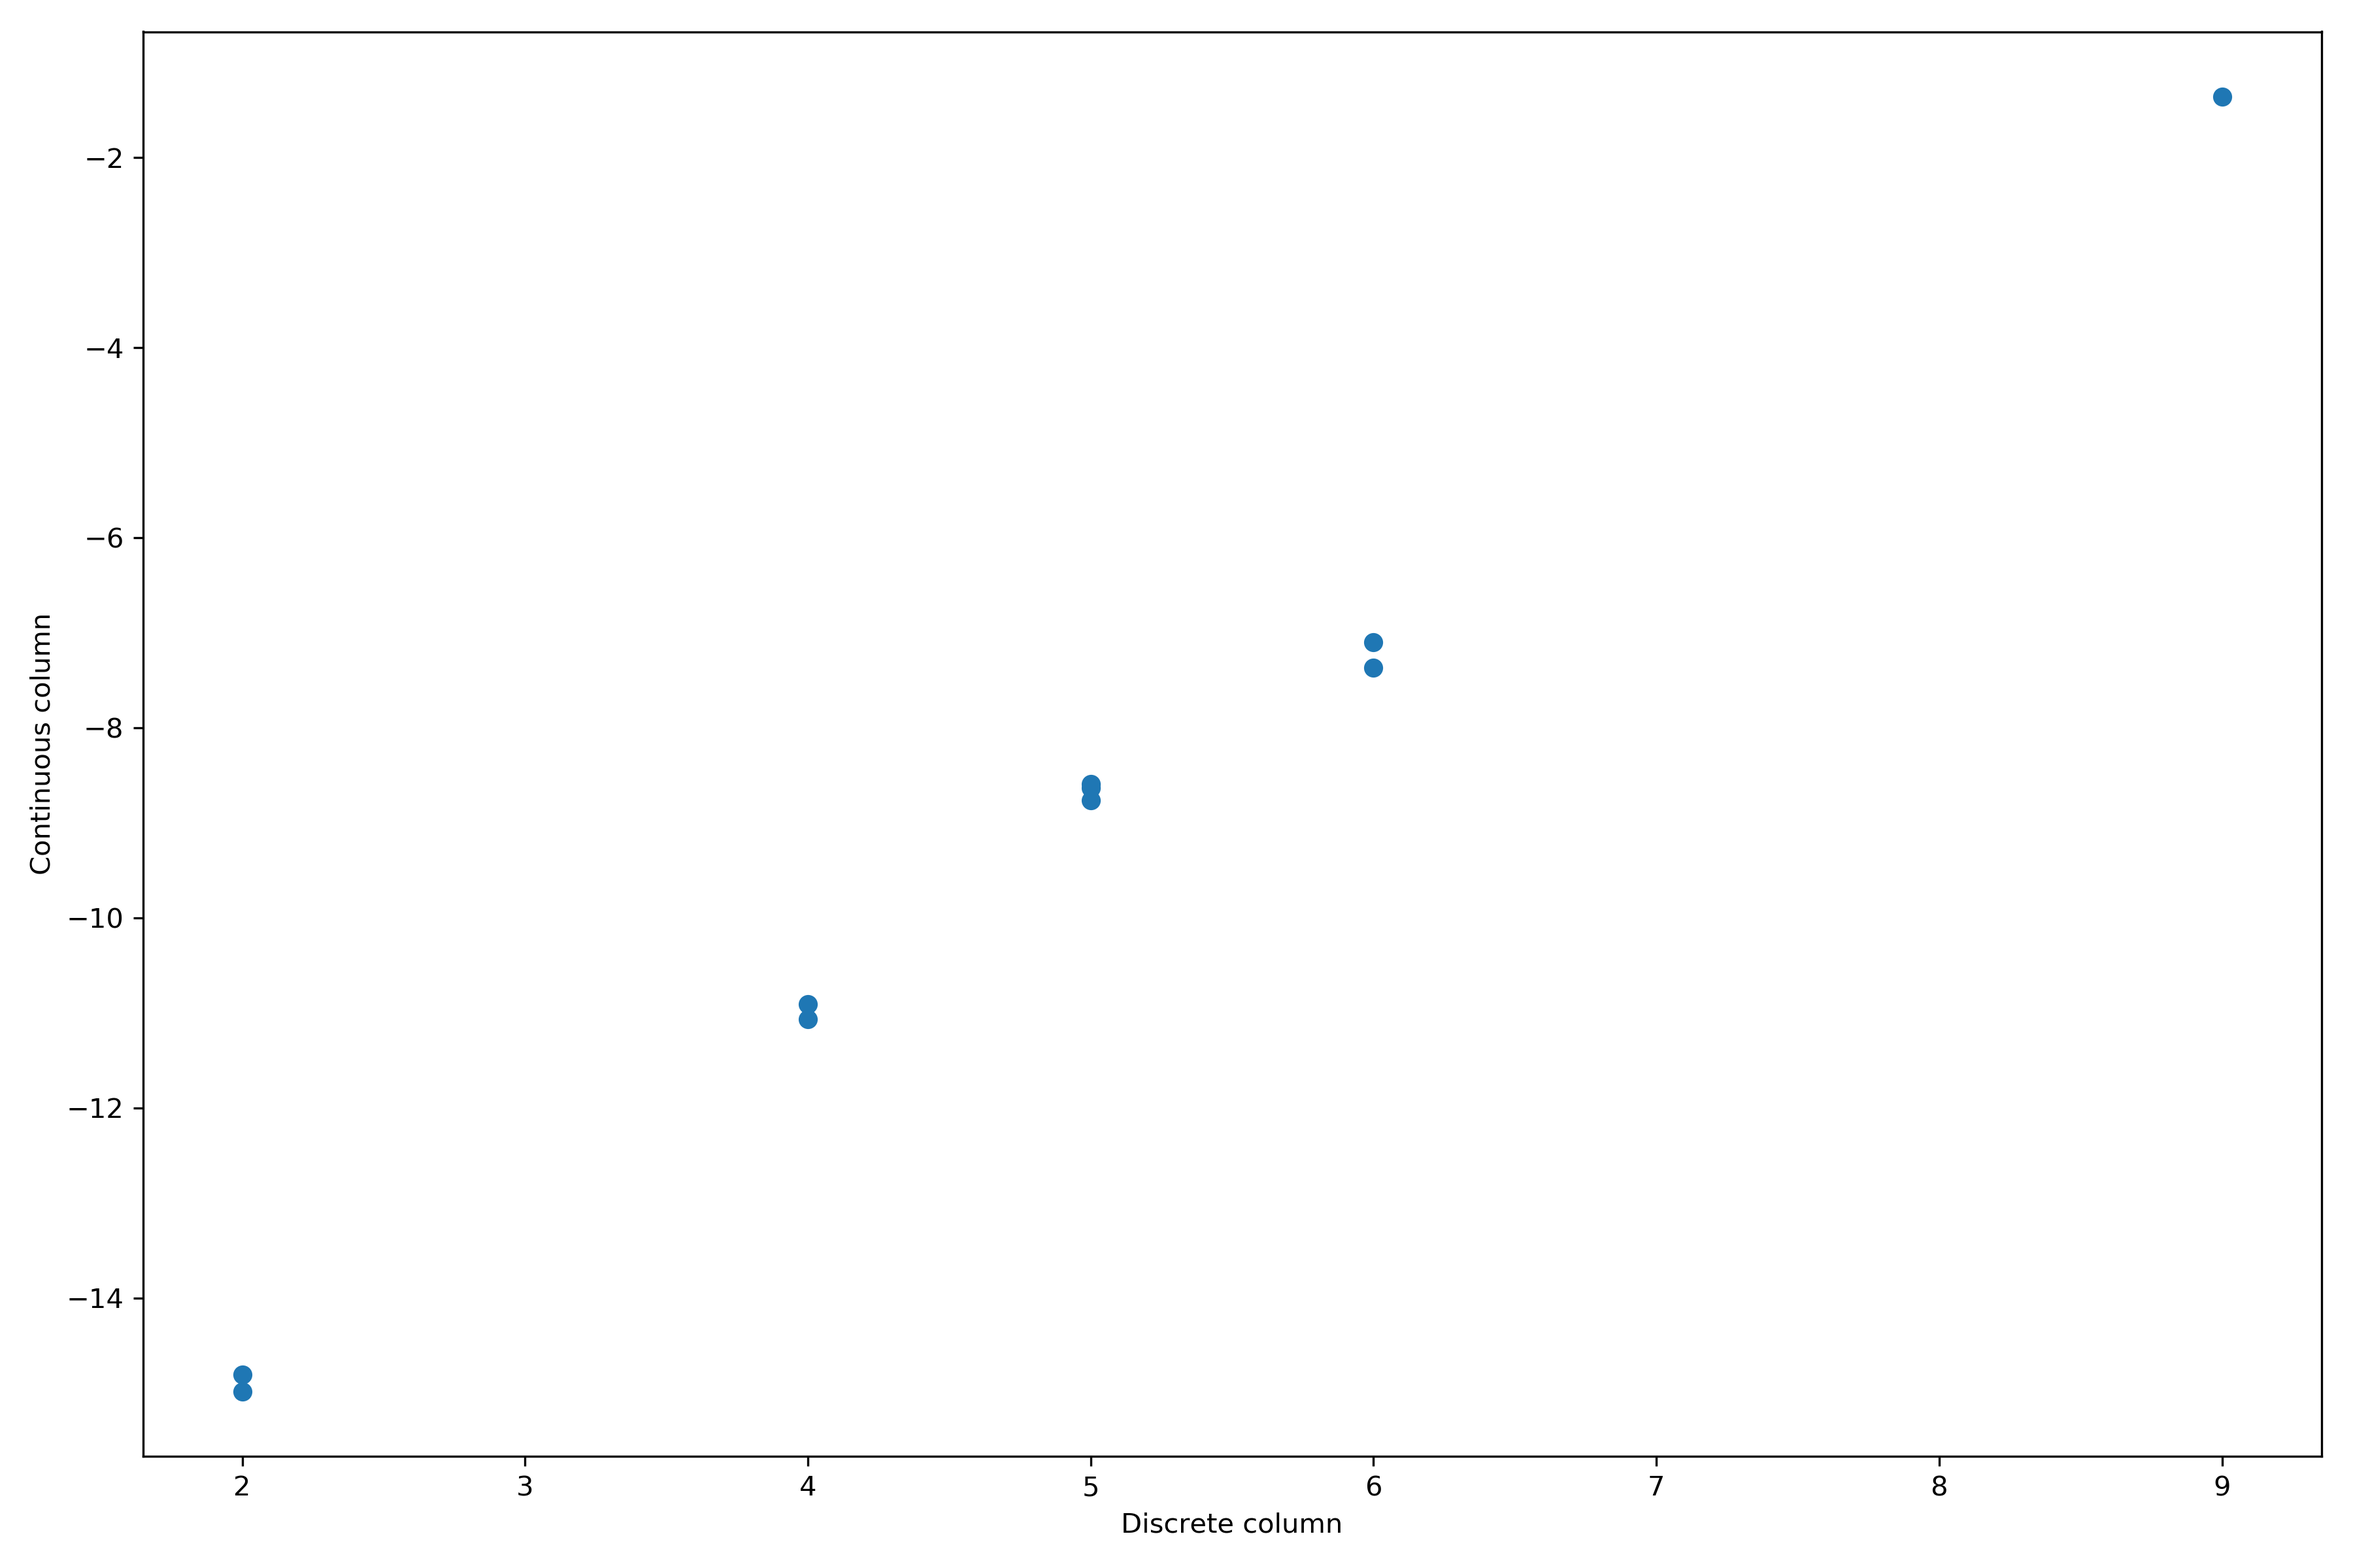
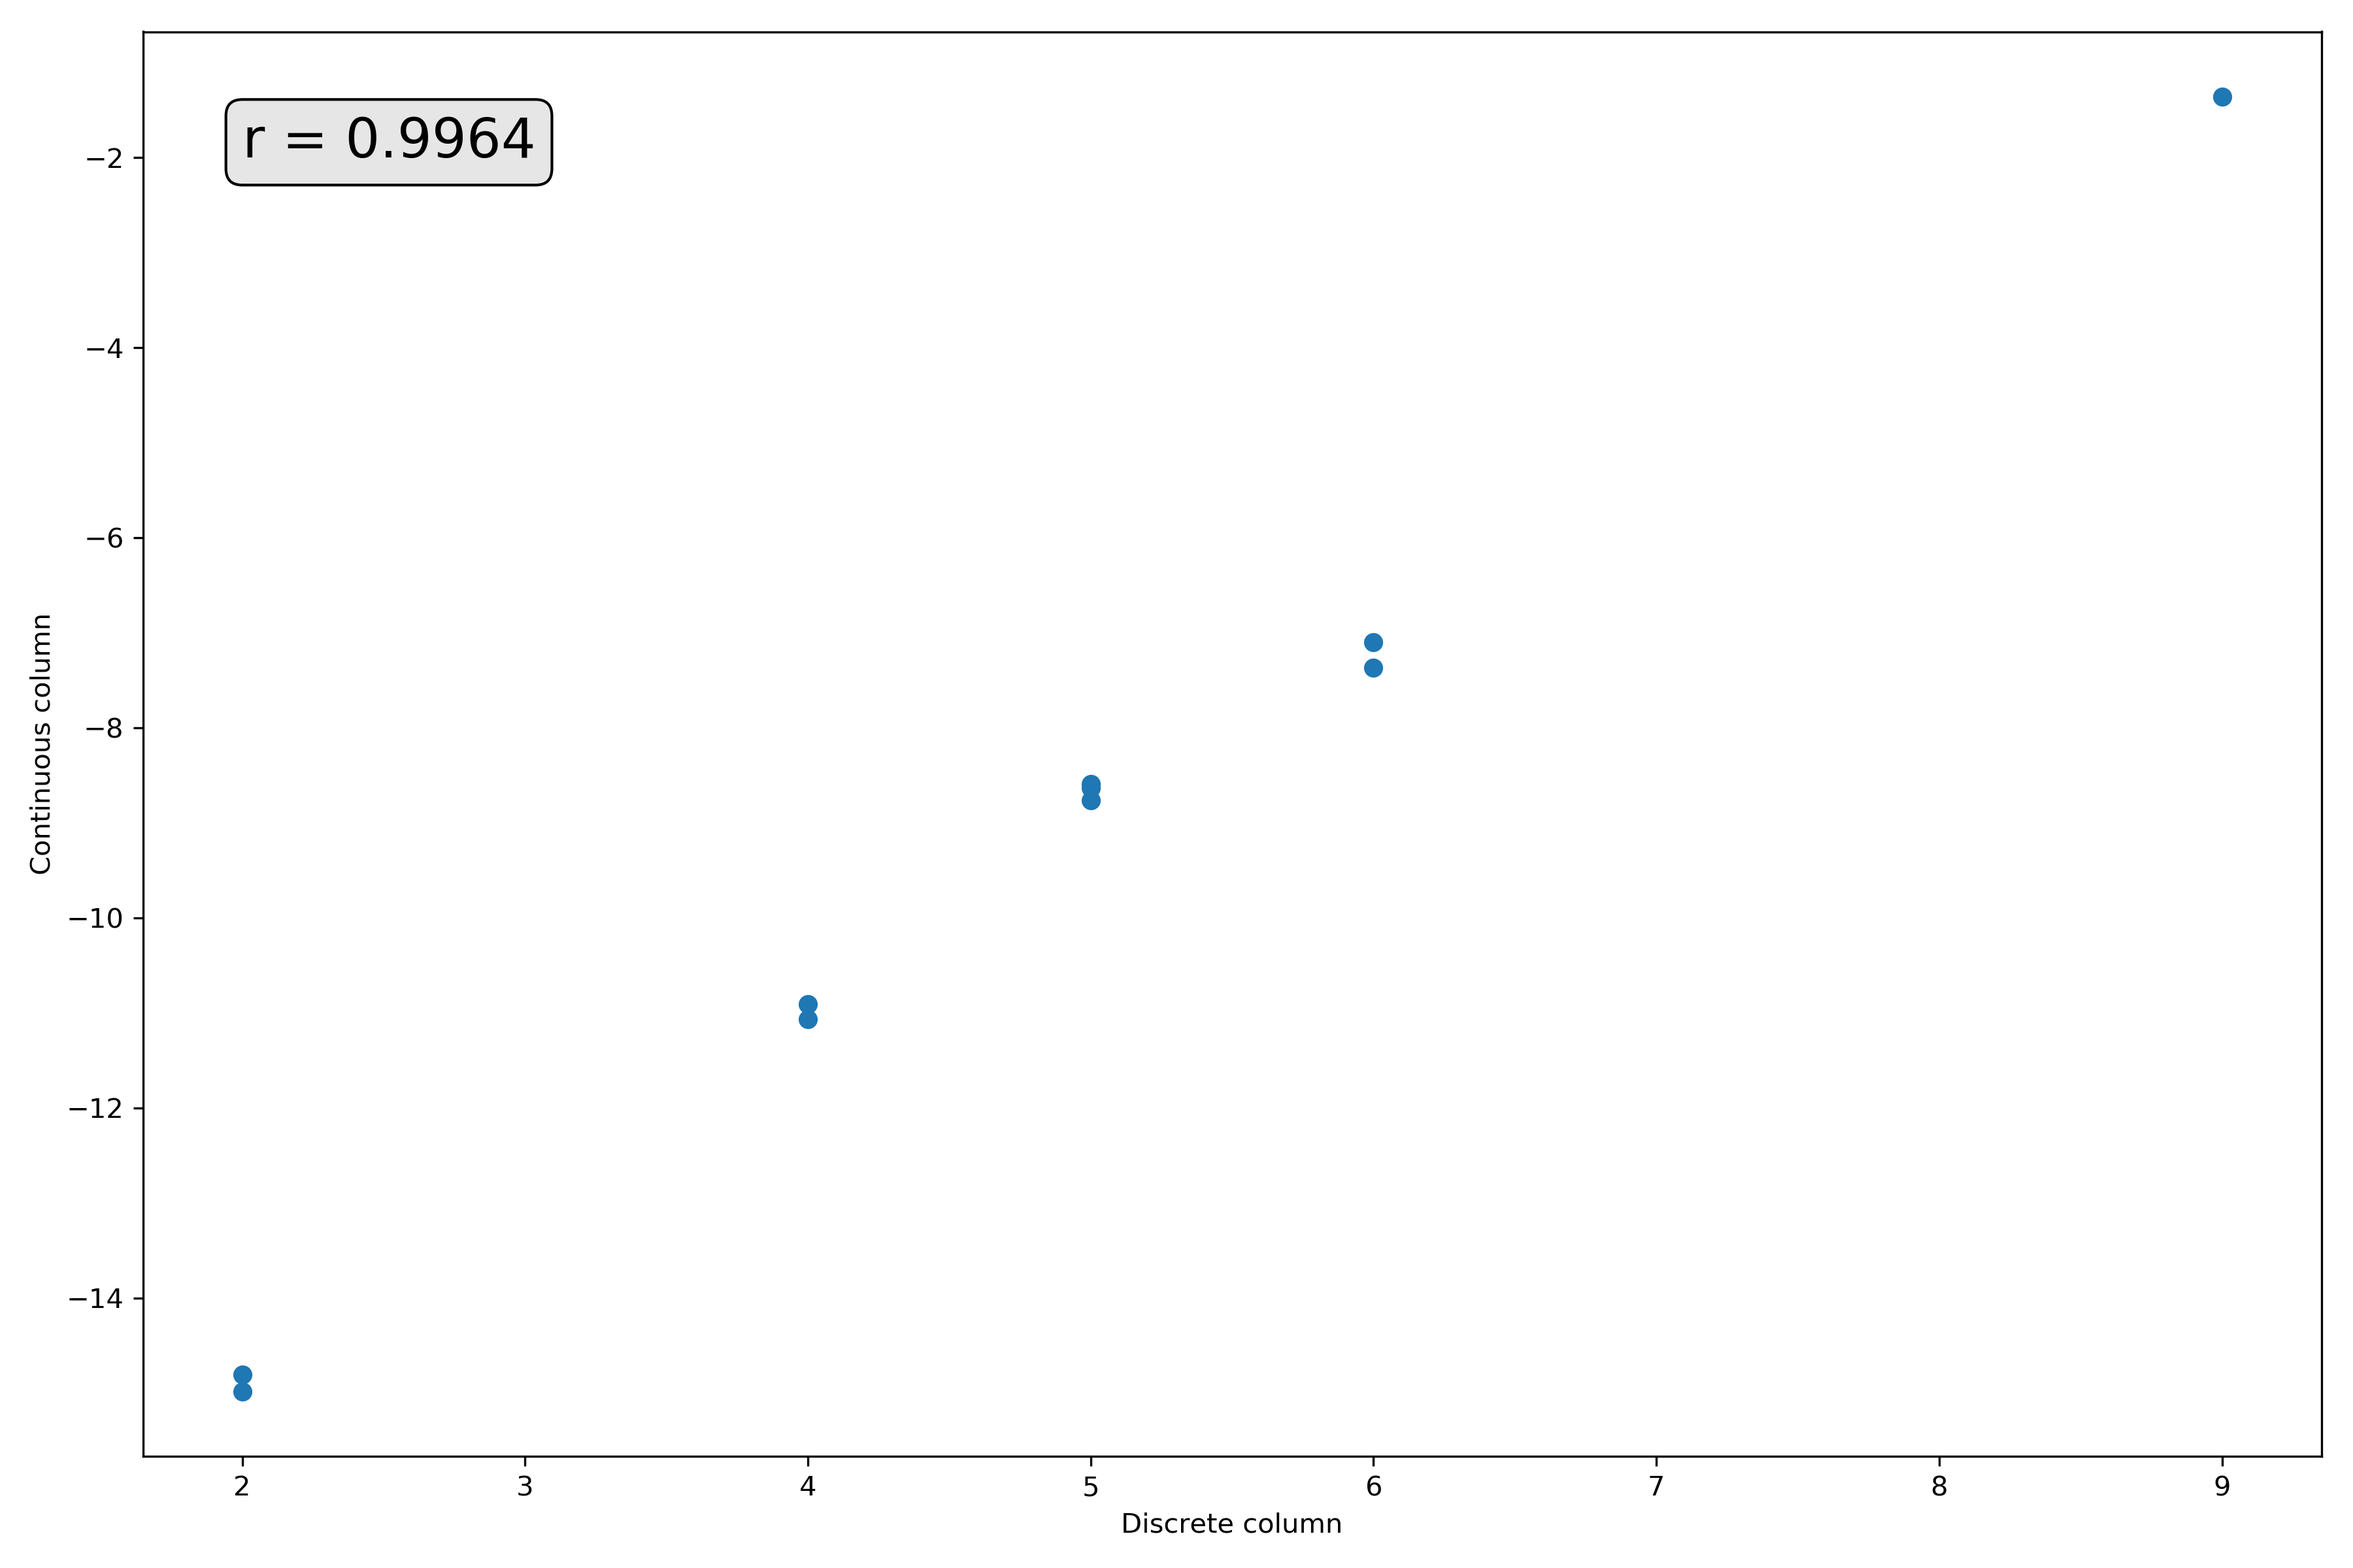
Clean up.

Changed region(s): [[0.0933, 0.0625, 0.2489, 0.125]]

diff --git a/docs/src/tutorial_iii.py b/docs/src/tutorial_iii.py
@@ -59,7 +59,7 @@ def main():
     ax.set_ylabel("Continuous column")
     ax.annotate(
         s=f"r = {np.round(fit[best], 4)}",
-        xy=[10.5, 7.6],
+        xy=[2, -2],
         fontsize=20,
         bbox=dict(boxstyle="round", fc="0.9"),
     )

diff --git a/docs/how-to/seed.rst b/docs/how-to/seed.rst
@@ -10,7 +10,8 @@ should be integer.
 
 Consider the setting from the :ref:`first tutorial <refs-tutorial-i>`. We will
 obtain inconsistent results by running the algorithm twice using two values of
-`seed`.:
+:code:`seed`.
+
 
 Run the algorithm with one seed::
 
@@ -33,7 +34,7 @@ And again, with another seed::
    ...     col_limits=[1, 1],
    ...     pdfs=[Normal],
    ...     max_iter=5,
-   ...     seed=101
+   ...     seed=1
    ... )
 
 Now, by looking at the first individual in the final population for each run, we
@@ -47,4 +48,53 @@ see they are different::
 
 For further verification, we can look at the fitness progression::
 
-.. Put in code and image for side-by-side boxplots.
+   >>> import numpy as np
+   >>> import matplotlib.pyplot as plt
+   >>> from matplotlib.patches import Patch
+
+   >>> fig, ax = plt.subplots(1, figsize=(32, 12), dpi=300)
+
+   >>> width = 0.3
+   >>> epsilon = 0.01
+   >>> positions = np.arange(len(all_fits))
+   >>> shift = 0.5 * width + epsilon
+
+   >>> old = ax.boxplot(
+   ...     all_fits,
+   ...     positions=positions - shift,
+   ...     widths=width,
+   ...     patch_artist=True
+   ... )
+
+   >>> new = ax.boxplot(
+   ...     new_all_fits,
+   ...     positions=positions + shift,
+   ...     widths=width,
+   ...     patch_artist=True
+   ... )
+
+   >>> ax.set_xticks(positions)
+   >>> ax.set_xticklabels(positions)
+   >>> ax.set_yscale('log')
+   >>> ax.set_xlabel('Epoch', fontsize=24)
+   >>> ax.set_ylabel(r'$\log (f(x))$', fontsize=24)
+
+   >>> for plot, colour in zip([old, new], ['lightblue', 'lightpink']):
+   ...     for patch in plot['boxes']:
+   ...         patch.set_facecolor(colour)
+
+   >>> for label in ax.get_xticklabels() + ax.get_yticklabels():
+   ...     label.set_fontsize(20)
+
+   >>> ax.legend(
+   ...     handles=[Patch(color='lightblue'), Patch(color='lightpink')],
+   ...     labels=['Seed 0', 'Seed 1'],
+   ...     fontsize=24
+   ... )
+
+   >>> plt.show()
+
+.. image:: ../_static/seed.png
+   :width: 100 %
+   :align: center
+   :alt: Results for two different seeds

diff --git a/docs/tutorial/tutorial_iii.rst b/docs/tutorial/tutorial_iii.rst
@@ -31,7 +31,7 @@ limits within :code:`col_limits`::
    >>> from edo.pdfs import Normal, Poisson
 
    >>> pop, fit, all_pops, all_fits = edo.run_algorithm(
-   ...     fitness=linregress_fitness,
+   ...     fitness=r_squared,
    ...     size=100,
    ...     row_limits=[10, 50],
    ...     col_limits=[(1, 1), (1, 1)],
@@ -82,7 +82,7 @@ We can also take a look at the best individual in the final population::
    >>> ax.scatter(df.select_dtypes('int'), df.select_dtypes('float'))
    >>> ax.annotate(
    ...     f'r = {np.round(fit[best], 4)}',
-   ...     xy=[10.5, 7.6],
+   ...     xy=[2, -2],
    ...     fontsize=20,
    ...     bbox=dict(boxstyle='round', fc='0.9')
    ... )

diff --git a/docs/tutorial/tutorial_i.rst b/docs/tutorial/tutorial_i.rst
@@ -50,7 +50,6 @@ Set up and run the algorithm::
     ...     col_limits=[1, 1],
     ...     pdfs=[Normal],
     ...     max_iter=5,
-    ...     maximise=False,
     ...     seed=0
     ... )
 
